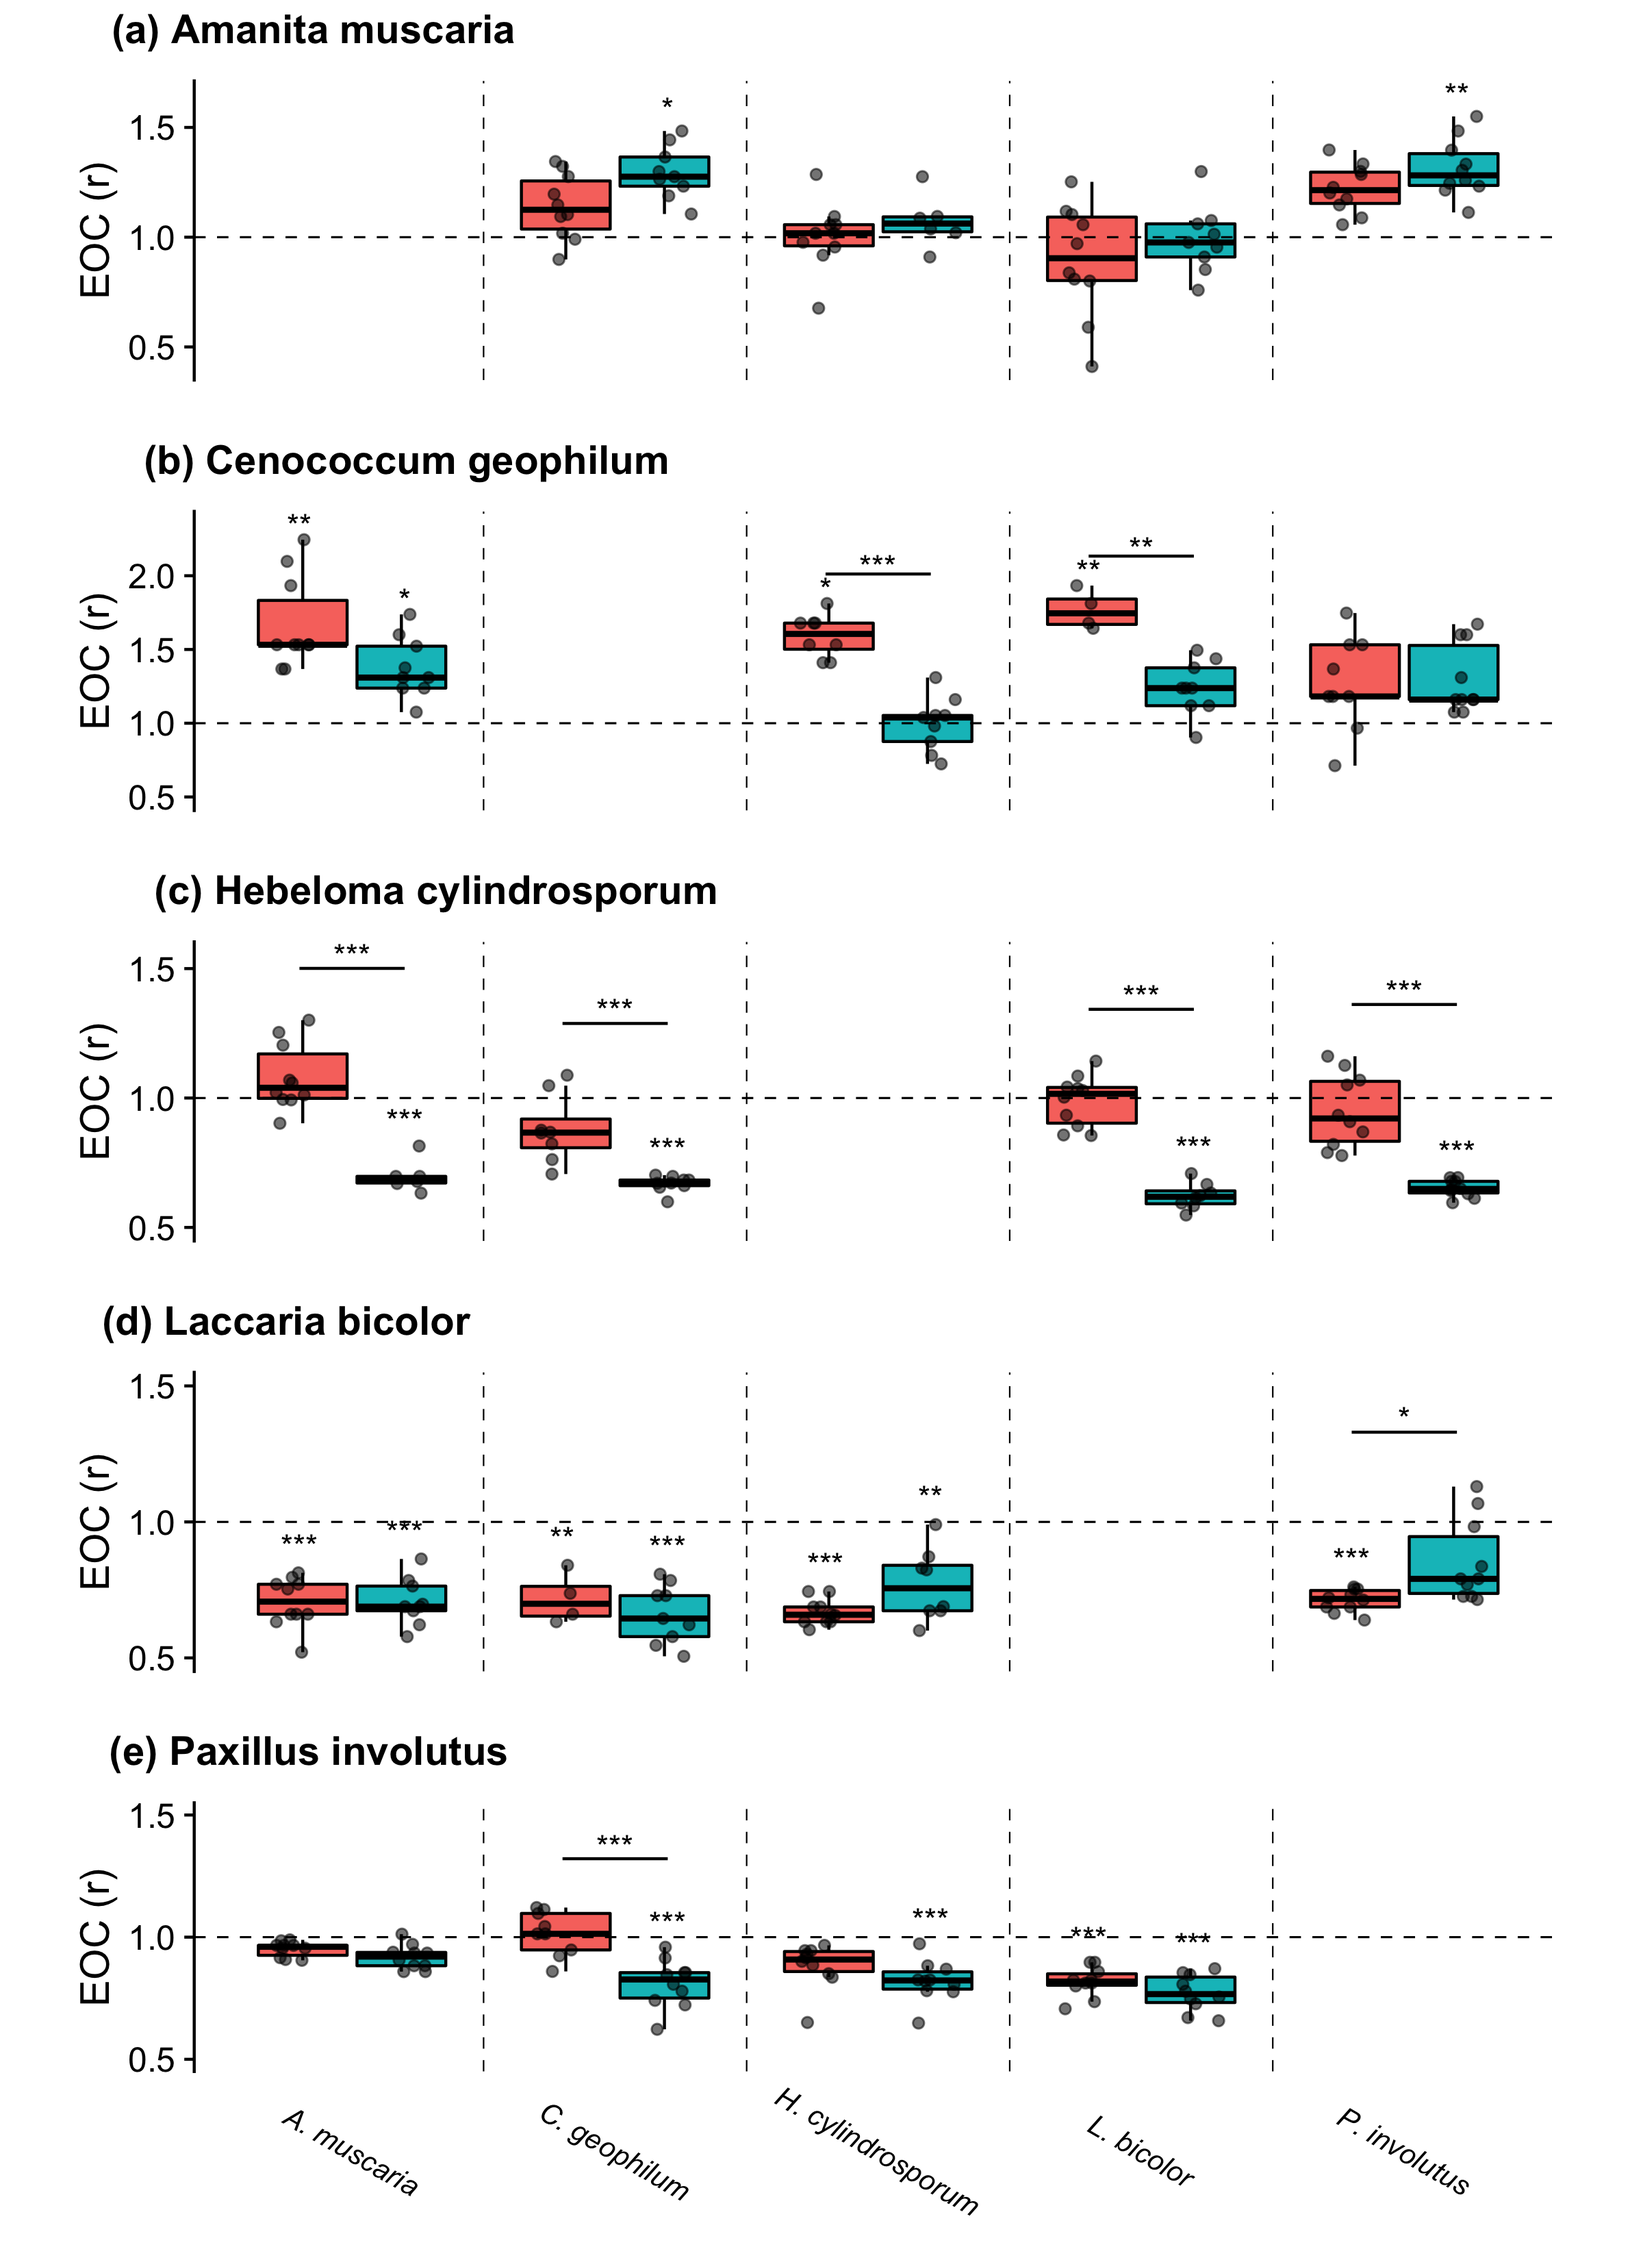
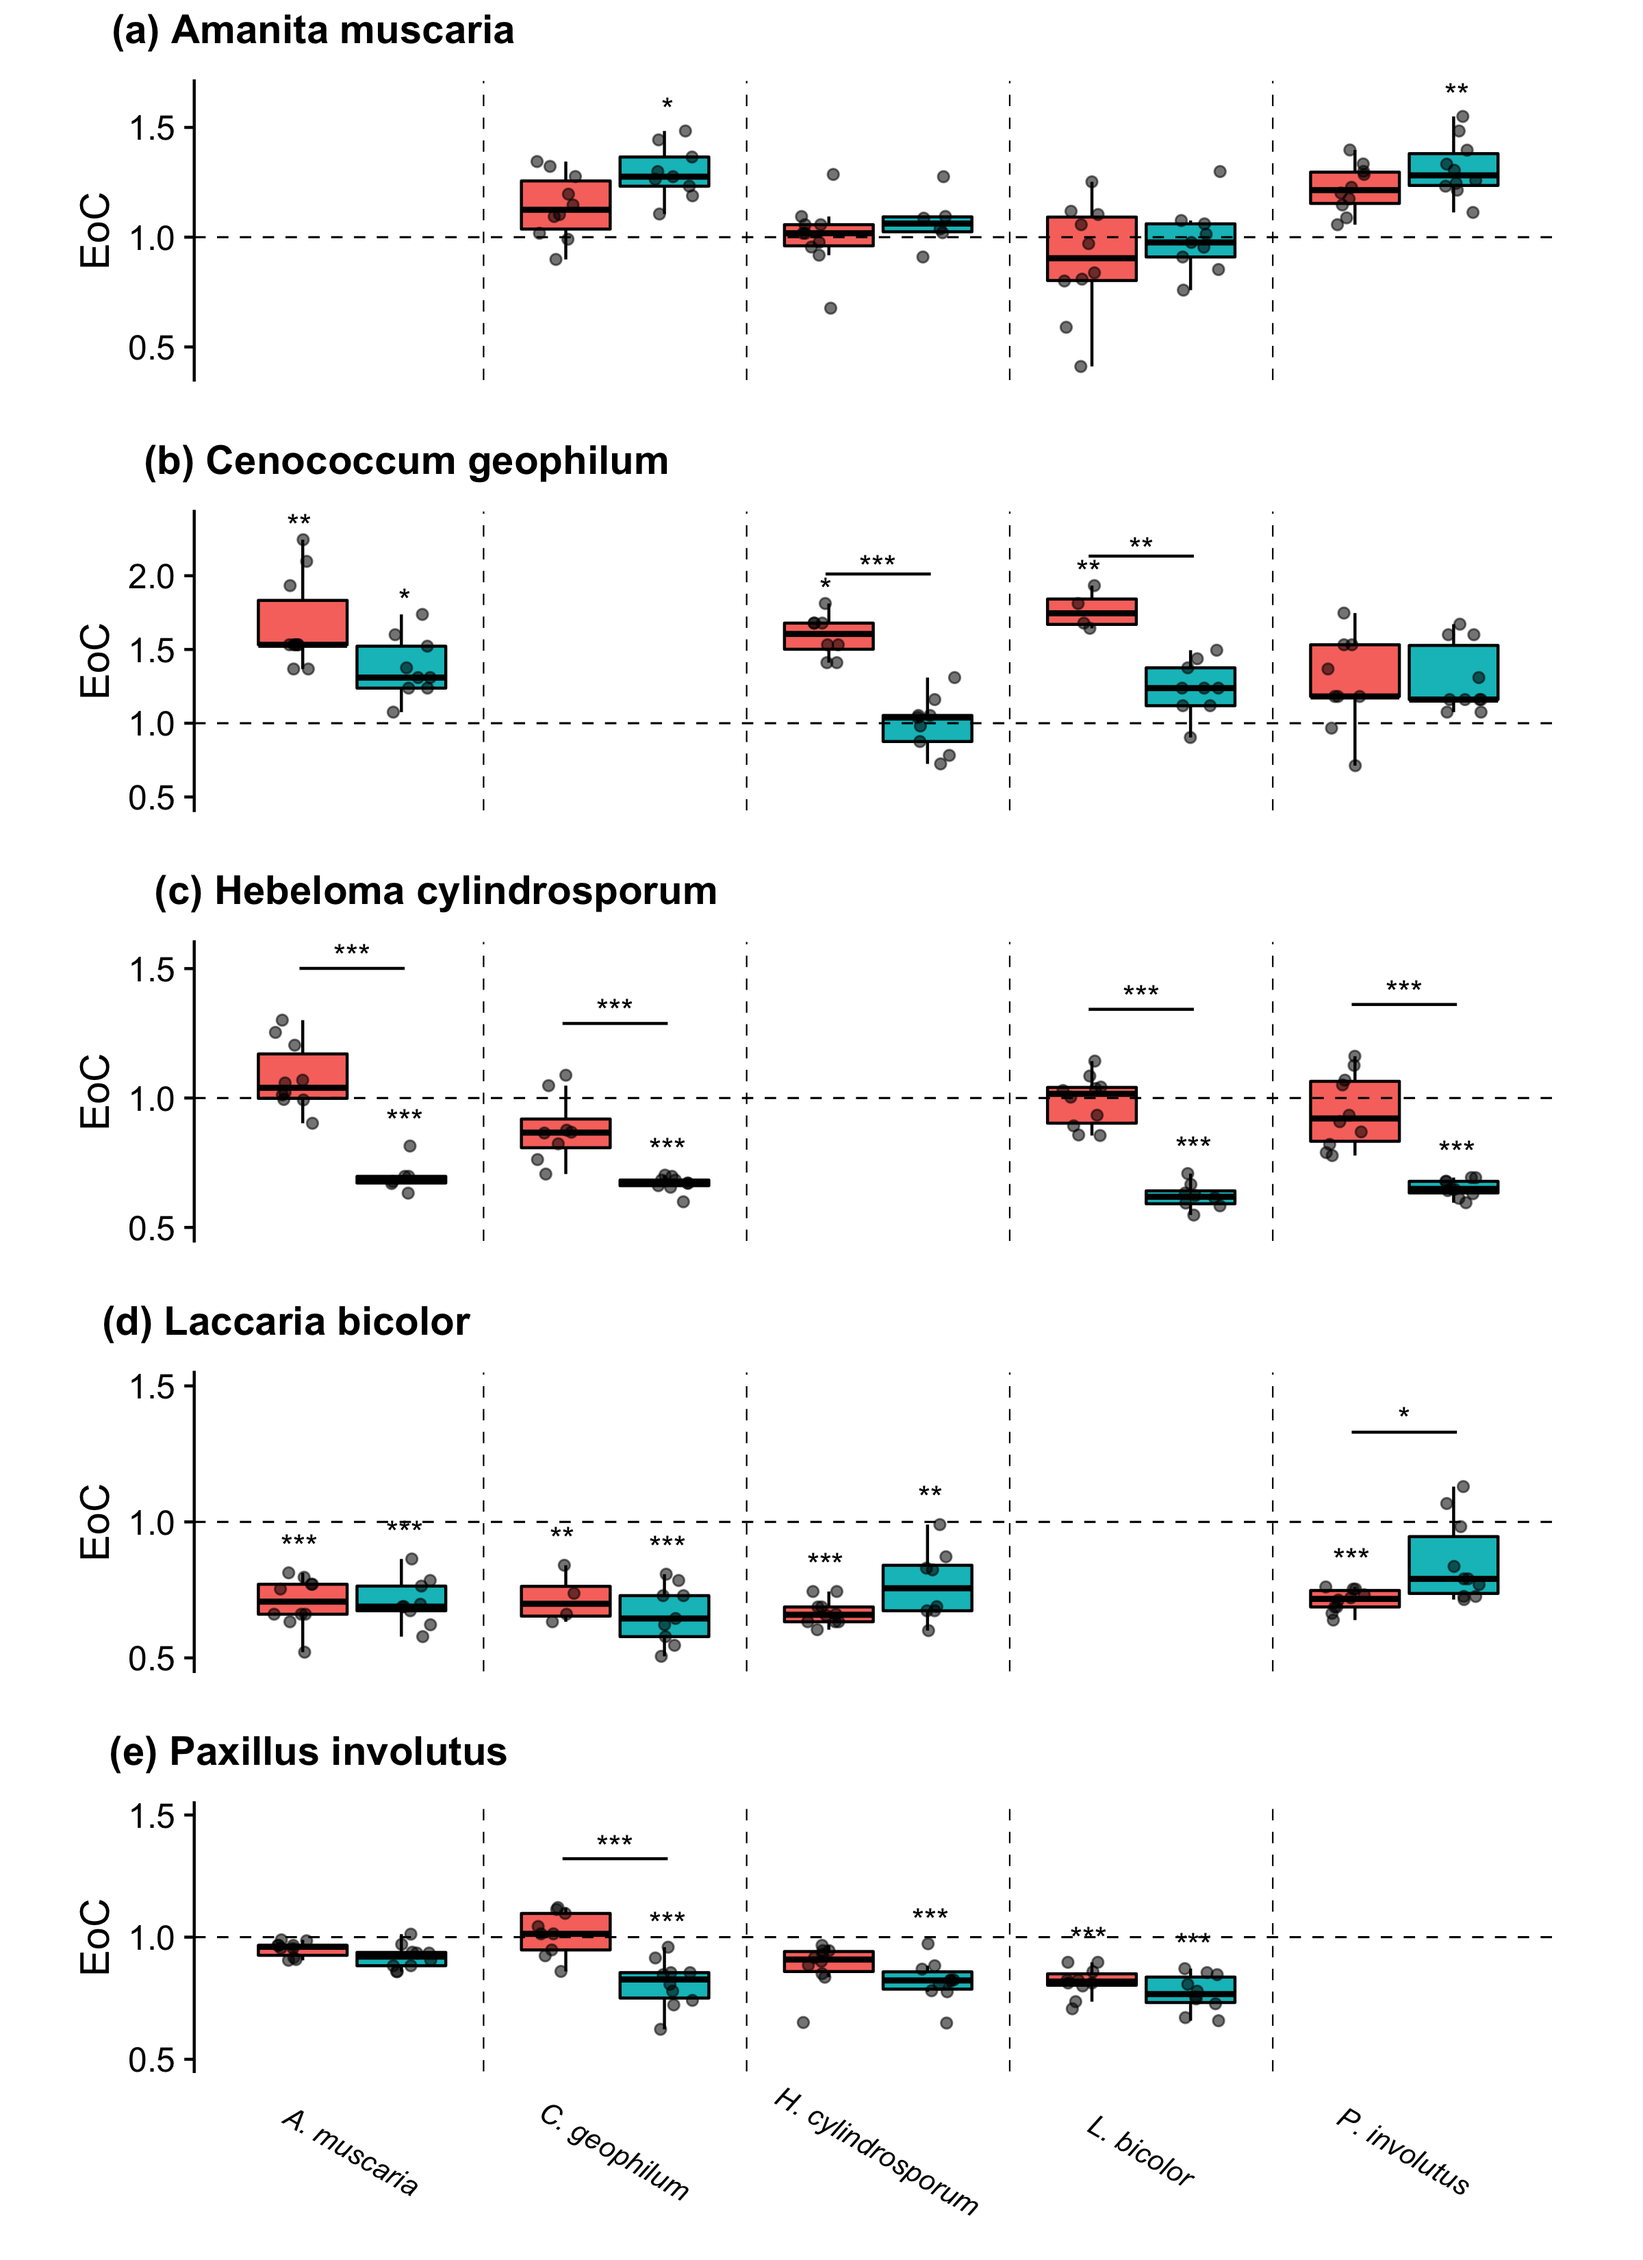
1/12

diff --git a/mod_EOCrdiff_distbay.htm b/mod_EOCrdiff_distbay.htm
@@ -1,28 +1,28 @@
 
 <table style="text-align:center"><tr><td colspan="3" style="border-bottom: 1px solid black"></td></tr><tr><td style="text-align:left"></td><td colspan="2"><em>Dependent variable:</em></td></tr>
 <tr><td></td><td colspan="2" style="border-bottom: 1px solid black"></td></tr>
-<tr><td style="text-align:left"></td><td colspan="2">EOCr</td></tr>
-<tr><td style="text-align:left"></td><td>Trait-based</td><td>Phylogeny-based</td></tr>
+<tr><td style="text-align:left"></td><td colspan="2">EoC</td></tr>
+<tr><td style="text-align:left"></td><td>Growth Rate-based</td><td>Phylogenetic-based</td></tr>
 <tr><td style="text-align:left"></td><td>(1)</td><td>(2)</td></tr>
-<tr><td colspan="3" style="border-bottom: 1px solid black"></td></tr><tr><td style="text-align:left">rdiff</td><td>0.622</td><td></td></tr>
+<tr><td colspan="3" style="border-bottom: 1px solid black"></td></tr><tr><td style="text-align:left">Growth Rate Distance</td><td>0.622</td><td></td></tr>
 <tr><td style="text-align:left"></td><td>(0.353)</td><td></td></tr>
 <tr><td style="text-align:left"></td><td></td><td></td></tr>
-<tr><td style="text-align:left">dist</td><td></td><td>0.304<sup>**</sup></td></tr>
+<tr><td style="text-align:left">Phylogenetic Distance</td><td></td><td>0.304<sup>**</sup></td></tr>
 <tr><td style="text-align:left"></td><td></td><td>(0.113)</td></tr>
 <tr><td style="text-align:left"></td><td></td><td></td></tr>
-<tr><td style="text-align:left">PH_ID7</td><td>-0.036</td><td>0.055</td></tr>
+<tr><td style="text-align:left">pH 7</td><td>-0.036</td><td>0.055</td></tr>
 <tr><td style="text-align:left"></td><td>(0.041)</td><td>(0.076)</td></tr>
 <tr><td style="text-align:left"></td><td></td><td></td></tr>
-<tr><td style="text-align:left">rdiff:PH_ID7</td><td>-0.959</td><td></td></tr>
+<tr><td style="text-align:left">Growth Rate Distance:pH 7</td><td>-0.959</td><td></td></tr>
 <tr><td style="text-align:left"></td><td>(0.507)</td><td></td></tr>
 <tr><td style="text-align:left"></td><td></td><td></td></tr>
-<tr><td style="text-align:left">dist:PH_ID7</td><td></td><td>-0.331<sup>*</sup></td></tr>
+<tr><td style="text-align:left">Phylogenetic Distance:pH 7</td><td></td><td>-0.331<sup>*</sup></td></tr>
 <tr><td style="text-align:left"></td><td></td><td>(0.150)</td></tr>
 <tr><td style="text-align:left"></td><td></td><td></td></tr>
 <tr><td style="text-align:left">Constant</td><td>-0.057</td><td>-0.156</td></tr>
 <tr><td style="text-align:left"></td><td>(0.116)</td><td>(0.120)</td></tr>
 <tr><td style="text-align:left"></td><td></td><td></td></tr>
-<tr><td colspan="3" style="border-bottom: 1px solid black"></td></tr><tr><td style="text-align:left">Conditional pseudo-R2</td><td>0.6696</td><td>0.6415</td></tr>
+<tr><td colspan="3" style="border-bottom: 1px solid black"></td></tr><tr><td style="text-align:left">Conditional pseudo-R2</td><td>0.6696</td><td>0.6159</td></tr>
 <tr><td style="text-align:left">Observations</td><td>362</td><td>362</td></tr>
 <tr><td style="text-align:left">Log Likelihood</td><td>77.770</td><td>77.239</td></tr>
 <tr><td style="text-align:left">Akaike Inf. Crit.</td><td>-141.540</td><td>-140.478</td></tr>
